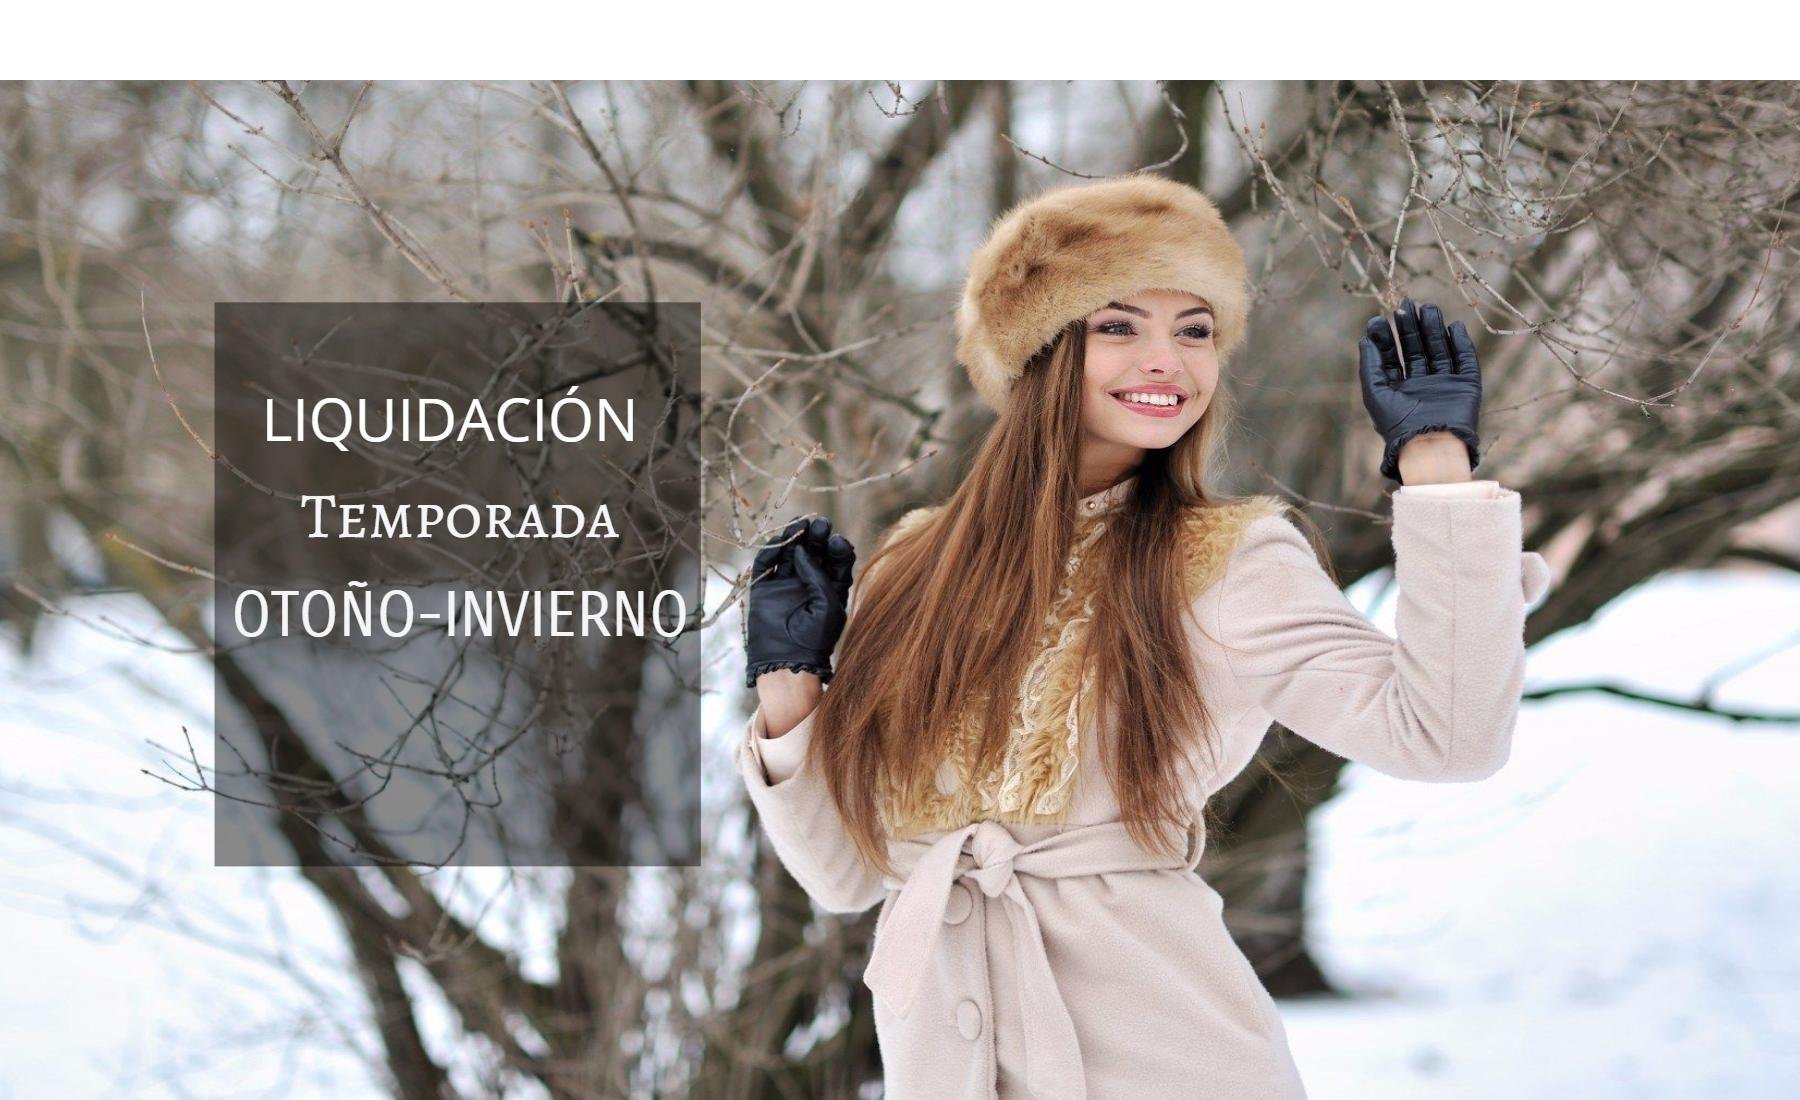
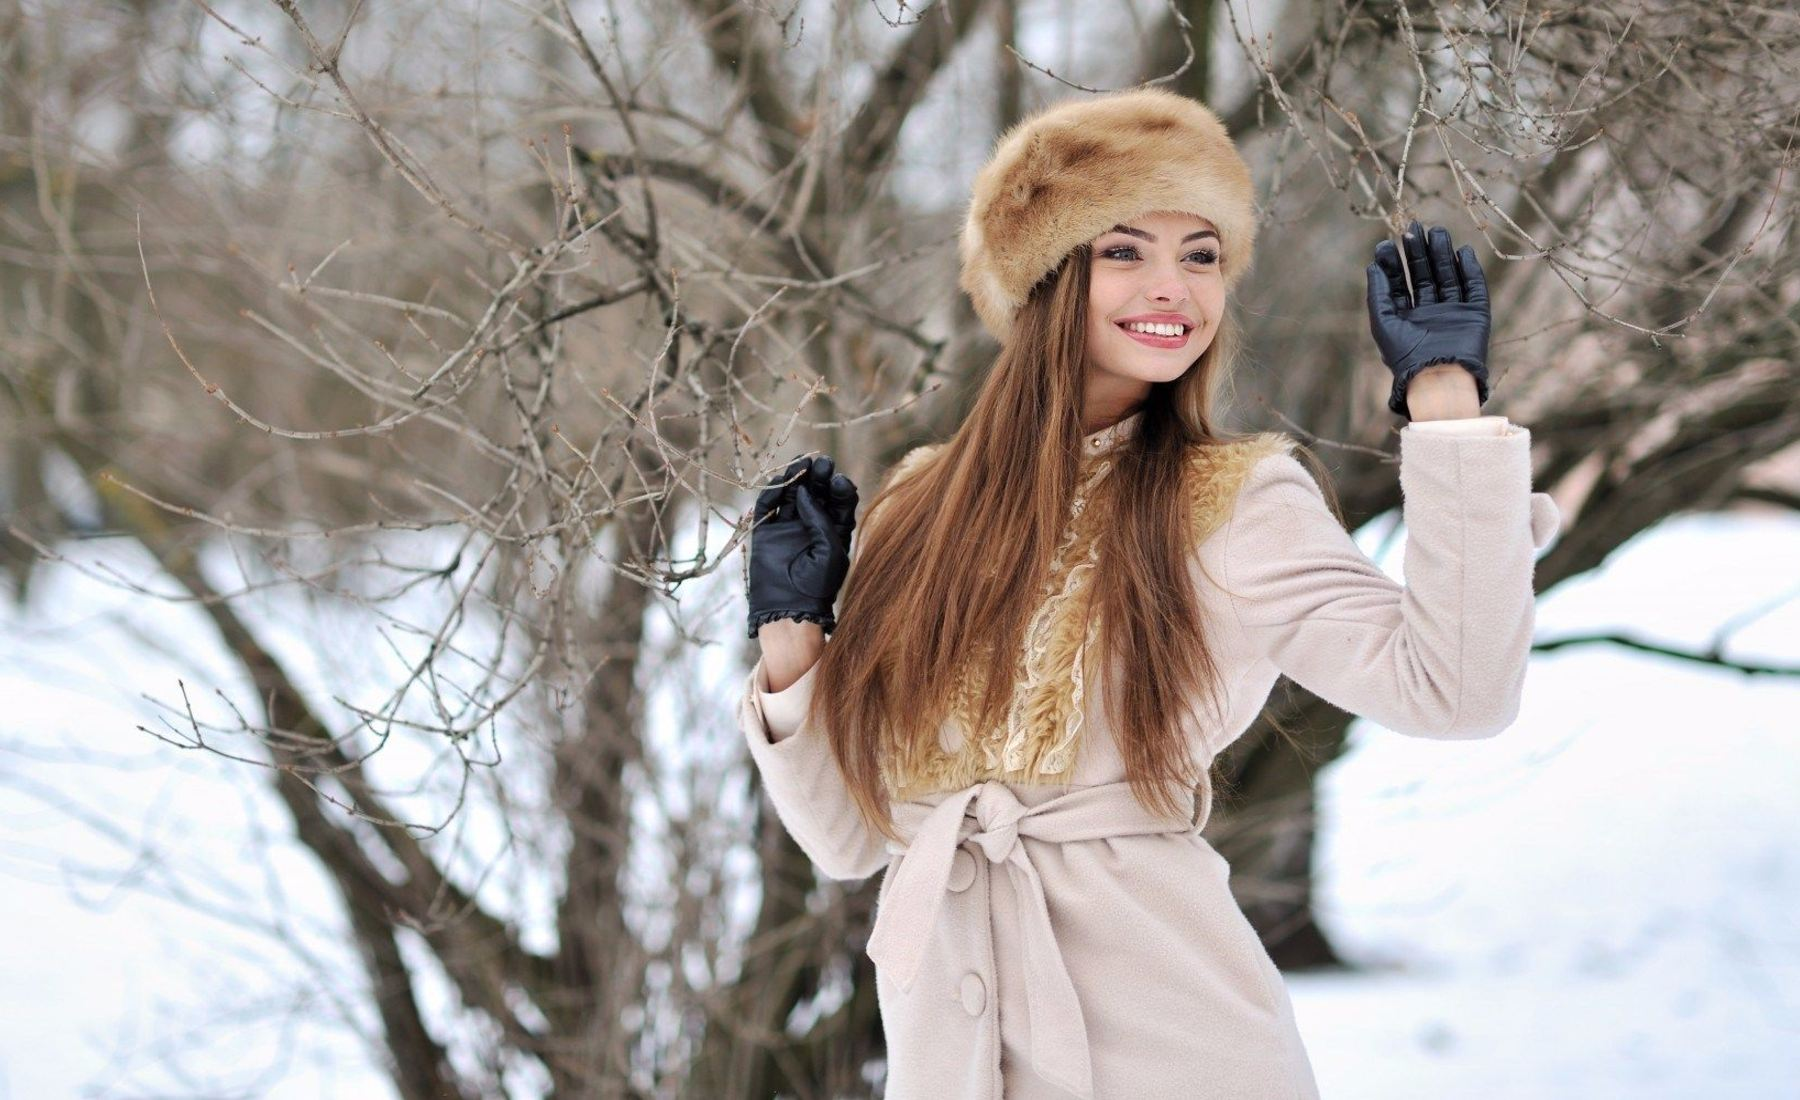
index parallax

diff --git a/css/index.css b/css/index.css
@@ -55,6 +55,7 @@
      background-position: center;
      background-size: cover;
      background-attachment: fixed;
+     position: relative;
    }
 
    section {
@@ -118,6 +119,17 @@
      background-image: url("../images/invierno1.jpg");
      background-position: right;
      background-size: cover;
+     position: relative;
+   }
+   .parallax-invierno img{
+     width: 27%;
+     position: absolute;
+     top: 23%;
+     left: 10%;
+     transition: width 0.5s;
+   }
+   .parallax-invierno img:hover{
+     width: 27.5%;
    }
    .parallax-divisor2{
      margin: 0px;
@@ -136,6 +148,82 @@
      background-image: url("../images/verano.jpg");
      background-position: center;
      background-size: cover;
+     position: relative;
+   }
+   .parallax-verano img{
+     width: 22%;
+     position: relative;
+     margin: 0 auto;
+     top: 67%;
+     left: 50%;
+     transform: translateX(-50%);
+     transition: width 0.5s;
+   }
+   .parallax-verano img:hover{
+     width: 22.5%;
+   }
+
+   .parallax-divisor3{
+     margin: 0px;
+     height: 100vh;
+     width: 100%;
+     background-image: url("../images/parallax8.jpeg");
+     background-position: center;
+     background-size: cover;
+     background-attachment: fixed
+   }
+
+   .parallax-hombres {
+     margin: 0px;
+     height: 100vh;
+     width: 100%;
+     background-image: url("../images/hombre.jpg");
+     background-position: top;
+     background-size: cover;
+     position: relative;
+   }
+   .parallax-hombres img{
+     width: 27%;
+     position: absolute;
+     top: 50%;
+     transform: translateY(-50%);
+     left: 15%;
+     transition: width 0.5s;
+   }
+   .parallax-hombres img:hover {
+     width: 27.5%;
+   }
+
+   .parallax-divisor4 {
+     margin: 0px;
+     height: 100vh;
+     width: 100%;
+     background-image: url("../images/parallax9.jpg");
+     background-position: center;
+     background-size: cover;
+     background-attachment: fixed
+   }
+
+   .parallax-mujeres {
+     margin: 0px;
+     height: 100vh;
+     width: 100%;
+     background-image: url("../images/parallax2.jpg");
+     background-position: top;
+     background-size: cover;
+     position: relative;
+   }
+
+   .parallax-mujeres img{
+     width: 31%;
+     position: absolute;
+     top: 50%;
+     transform: translateY(-50%);
+     left: 13%;
+     transition: width 0.5s;
+   }
+   .parallax-mujeres img:hover{
+     width: 31.5%;
    }
 
 /* NOTE: Responsive Tablets */
@@ -149,7 +237,7 @@
      width: 100%;
      background-image: url("../images/banner.jpg");
      height: 400px;
-     background-size: 100% 80%;
+     background-size: 100% 85%;
      background-repeat: no-repeat;
      background-position-y: 60px;
    }
@@ -184,8 +272,21 @@
    section.ofertas{
       width: 100%;
       height: 100%;
-      margin-top: 70px;
+      margin-top: 3px;
    }
+}
+
+@media (max-width:604px){
+  .parallax-primavera {
+    background-image: url("../images/primaveramobile.jpg");
+  }
+  .parallax-invierno img{
+    top: 50%;
+    left: 60%;
+  }
+  .parallax-divisor3 {
+    background-image: url("../images/parallax8mobile.jpg");
+  }
 }
 
 /* NOTE: Responsive Mobile */

diff --git a/index.php b/index.php
@@ -35,7 +35,6 @@ session_start() ?>
         </div>
         <div class="parallax-primavera">
 
-
         </div>
 
               <section class="ofertas">
@@ -75,12 +74,24 @@ session_start() ?>
               <div class="parallax-divisor1">
               </div>
               <div class="parallax-invierno">
+                <a href="#"><img src="images/inviernocartel.png" alt=""></a>
               </div>
               <div class="parallax-divisor2">
               </div>
               <div class="parallax-verano">
-
+                <a href="#"><img src="images/vermas.png" alt=""></a>
               </div>
+              <div class="parallax-divisor3">
+              </div>
+              <div class="parallax-hombres">
+                <a href="#"><img src="images/hombrecartel.png" alt=""></a>
+              </div>
+              <div class="parallax-divisor4">
+              </div>
+              <div class="parallax-mujeres">
+                <img src="images/mujerescartel.png" alt="">
+              </div>
+
 
               <!--<section class="medios-pagos">
                  <div class="img-pagos">
